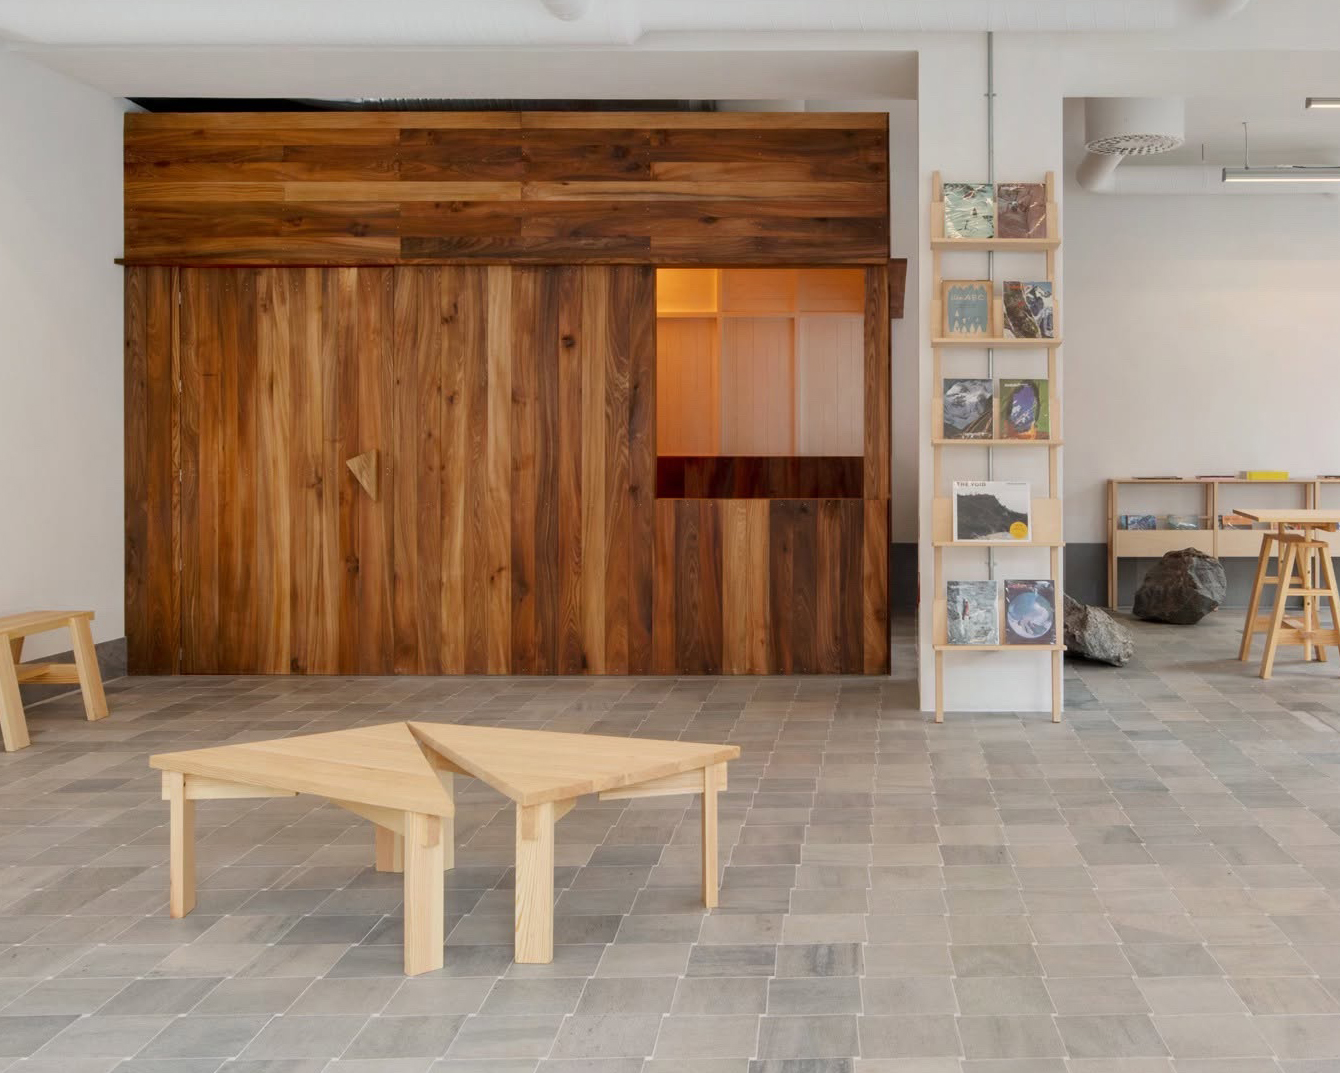
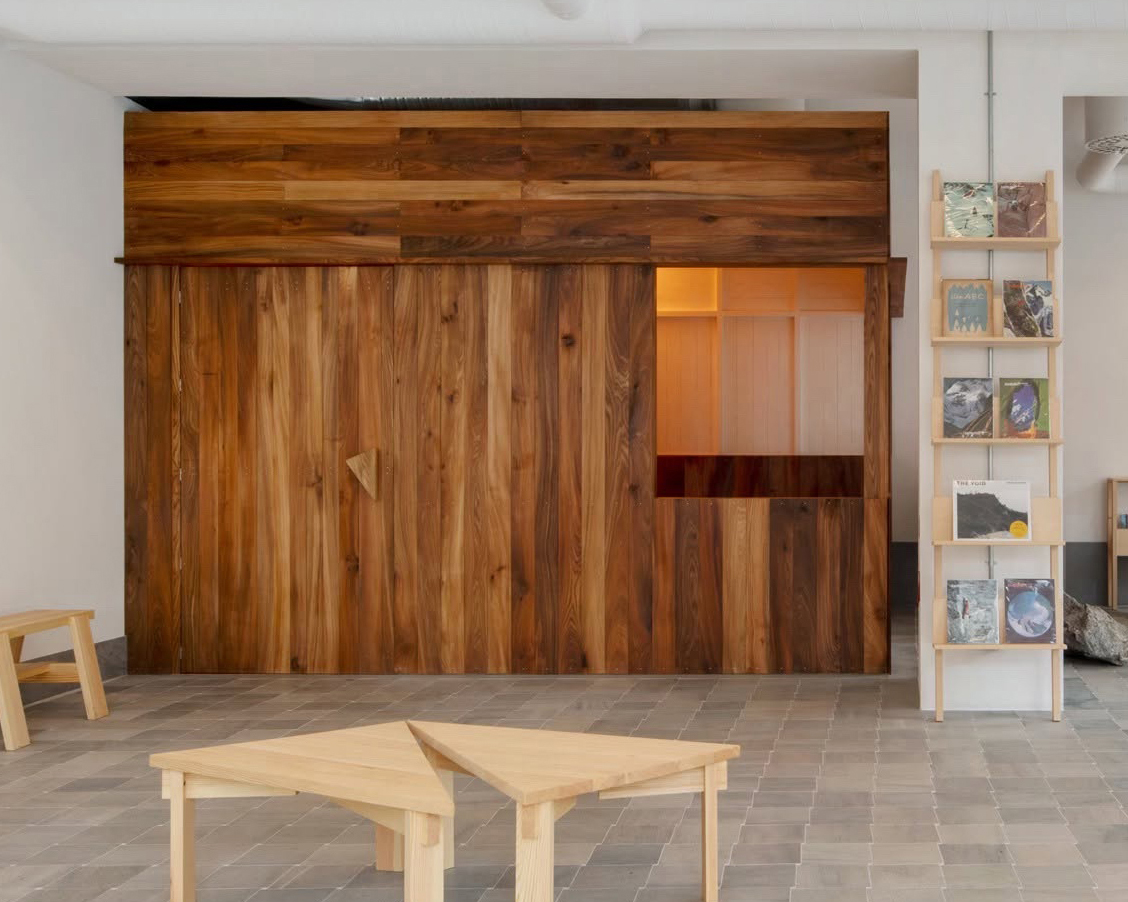
Colour randomiser (contrasting symbol), remove corner handles, new default
- 🎲 Randomise button (first in the In rug row): reshuffles every used colour to
  fresh in-stock yarns; the symbol gets a high-contrast colour vs the background.
- Removed the perspective corner handles — placement is move + X/Y/scale only.
- New default room placement (X40/Y52, scale 117%).

diff --git a/app.js b/app.js
@@ -138,8 +138,8 @@
   // ---------- scenes + perspective warp ----------
   const BG = {
     room:   { src:'room.jpg',   blend:'normal',
-              // upright square centred at X31% / Y41%, scale 149% (Jonas's preferred default)
-              corners:[ {x:0.157,y:0.219}, {x:0.464,y:0.219}, {x:0.464,y:0.601}, {x:0.157,y:0.601} ] },
+              // upright square centred at X40% / Y52%, scale 117% (Jonas's preferred default)
+              corners:[ {x:0.220,y:0.297}, {x:0.580,y:0.297}, {x:0.580,y:0.743}, {x:0.220,y:0.743} ] },
     studio: { src:'studio.jpg', blend:'multiply',
               corners:[ {x:0.300,y:0.300}, {x:0.700,y:0.300}, {x:0.700,y:0.700}, {x:0.300,y:0.700} ] },
     custom: { src:'',           blend:'normal',
@@ -243,6 +243,28 @@
     recolorTarget=to; afterEdit();
   }
 
+  // randomise every colour in use to a fresh (in-stock) yarn; the symbol gets a contrasting colour so it stands out
+  const lumOf=idx=>{ const [r,g,b]=hexToRgb(palette[idx].hex); return 0.299*r+0.587*g+0.114*b; };
+  function randomizeColors(){
+    const counts=new Array(palette.length).fill(0); for(let y=0;y<N;y++)for(let x=0;x<N;x++){const v=grid[y][x]; if(v>=0)counts[v]++;}
+    const used=palette.map((c,i)=>i).filter(i=>counts[i]>0); if(!used.length) return;
+    const bg=used.filter(i=>bgColors.has(i)), sym=used.filter(i=>!bgColors.has(i));
+    let pool=palette.map((c,i)=>i).filter(i=>inStock(palette[i])); if(pool.length<used.length) pool=palette.map((c,i)=>i);
+    const sh=[...pool]; for(let i=sh.length-1;i>0;i--){ const j=Math.floor(Math.random()*(i+1)); [sh[i],sh[j]]=[sh[j],sh[i]]; }
+    pushHistory();
+    const map={}, taken=new Set();
+    let pi=0; bg.forEach(i=>{ while(taken.has(sh[pi%sh.length])) pi++; map[i]=sh[pi%sh.length]; taken.add(map[i]); pi++; });   // background: random distinct
+    const bgVals=bg.map(i=>lumOf(map[i])), meanBg=bgVals.length? bgVals.reduce((a,b)=>a+b,0)/bgVals.length : 128;
+    // symbol: pick among the most contrasting in-stock yarns (with a little randomness)
+    const cand=pool.filter(i=>!taken.has(i)).sort((a,b)=>Math.abs(lumOf(b)-meanBg)-Math.abs(lumOf(a)-meanBg));
+    sym.forEach(i=>{ const top=cand.filter(c=>!taken.has(c)).slice(0,5); const pick=top.length?top[Math.floor(Math.random()*top.length)]:(cand[0]??sh[0]); map[i]=pick; taken.add(pick); });
+    for(let y=0;y<N;y++)for(let x=0;x<N;x++){ const v=grid[y][x]; if(v>=0 && map[v]!=null) grid[y][x]=map[v]; }
+    const mv=i=> (i!=null && map[i]!=null)?map[i]:i;
+    groundIdx=mv(groundIdx); patternB=mv(patternB); recolorTarget=mv(recolorTarget);
+    bgColors=new Set([...bgColors].map(mv)); chipOrder=chipOrder.map(mv);
+    afterEdit();
+  }
+
   // ---------- background pattern (mask-based: only the background cells, never the symbol) ----------
   function defaultPatternB(){ return groundIdx===2 ? 8 : 2; }   // a contrasting yarn; recolour it via its chip like any colour
   function applyPattern(){
@@ -306,6 +328,7 @@
     if(recolorTarget==null || recolorTarget>=palette.length) recolorTarget=used[0];
     const ordered=chipOrder.filter(i=>counts[i]>0); used.forEach(i=>{ if(!ordered.includes(i)) ordered.push(i); });   // stable slots; new colours appended
 
+    const rnd=document.createElement('button'); rnd.className='rc-tool'; rnd.textContent='🎲'; rnd.title='Randomise the colours'; rnd.onclick=randomizeColors; rc.appendChild(rnd);
     const l=document.createElement('span'); l.className='lbl'; l.textContent='In rug'; rc.appendChild(l);
     ordered.forEach(i=>{
       const chip=document.createElement('div'); chip.className='rc-chip'+(i===recolorTarget?' active':'');
@@ -410,11 +433,6 @@
     studioCanvas.addEventListener('pointerdown', e=>{ e.preventDefault(); md={x:e.clientX,y:e.clientY}; rect=$('#studioWrap').getBoundingClientRect(); showXform(); try{studioCanvas.setPointerCapture(e.pointerId);}catch(_){ } });
     document.addEventListener('pointermove', e=>{ if(!md) return; const dx=(e.clientX-md.x)/rect.width, dy=(e.clientY-md.y)/rect.height; corners.forEach(p=>{p.x+=dx;p.y+=dy;}); md={x:e.clientX,y:e.clientY}; placeStudio(); });
     document.addEventListener('pointerup', ()=>{ if(md){ md=null; endDrag(); } });
-  })();
-  (function bindHandles(){ let drag=null, rect=null;
-    document.querySelectorAll('.handle').forEach(h=>{ h.addEventListener('pointerdown', e=>{ e.preventDefault(); drag=+h.dataset.corner; rect=$('#studioWrap').getBoundingClientRect(); showXform(); try{h.setPointerCapture(e.pointerId);}catch(_){ } }); });
-    document.addEventListener('pointermove', e=>{ if(drag===null) return; corners[drag]={ x:Math.max(0,Math.min(1,(e.clientX-rect.left)/rect.width)), y:Math.max(0,Math.min(1,(e.clientY-rect.top)/rect.height)) }; placeStudio(); });
-    document.addEventListener('pointerup', ()=>{ if(drag!==null){ drag=null; endDrag(); } });
   })();
   // dismiss the transform popover when clicking away from the rug / popover
   document.addEventListener('pointerdown', e=>{

diff --git a/index.html b/index.html
@@ -61,10 +61,6 @@
       <div class="studio-wrap" id="studioWrap">
         <img class="bg" id="studioBg" src="room.jpg" alt="Gallery">
         <div id="studioWarp"><canvas id="studioCanvas" width="500" height="500"></canvas></div>
-        <div class="handle" data-corner="0"></div>
-        <div class="handle" data-corner="1"></div>
-        <div class="handle" data-corner="2"></div>
-        <div class="handle" data-corner="3"></div>
       </div>
     </div>
 
